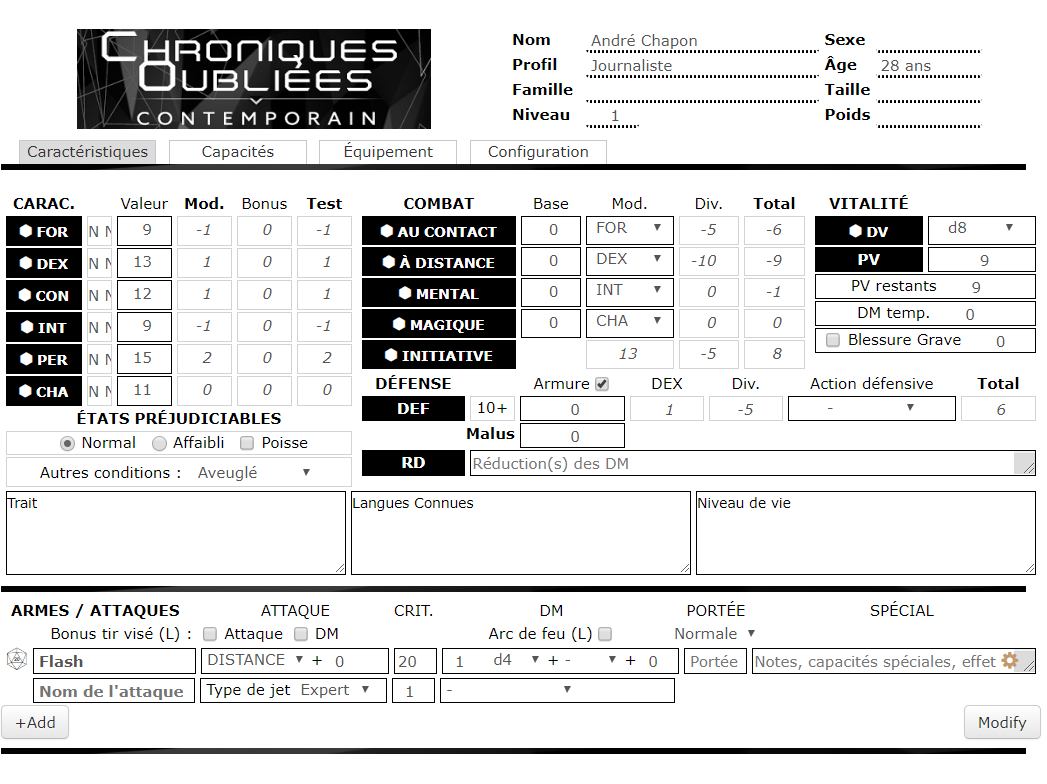
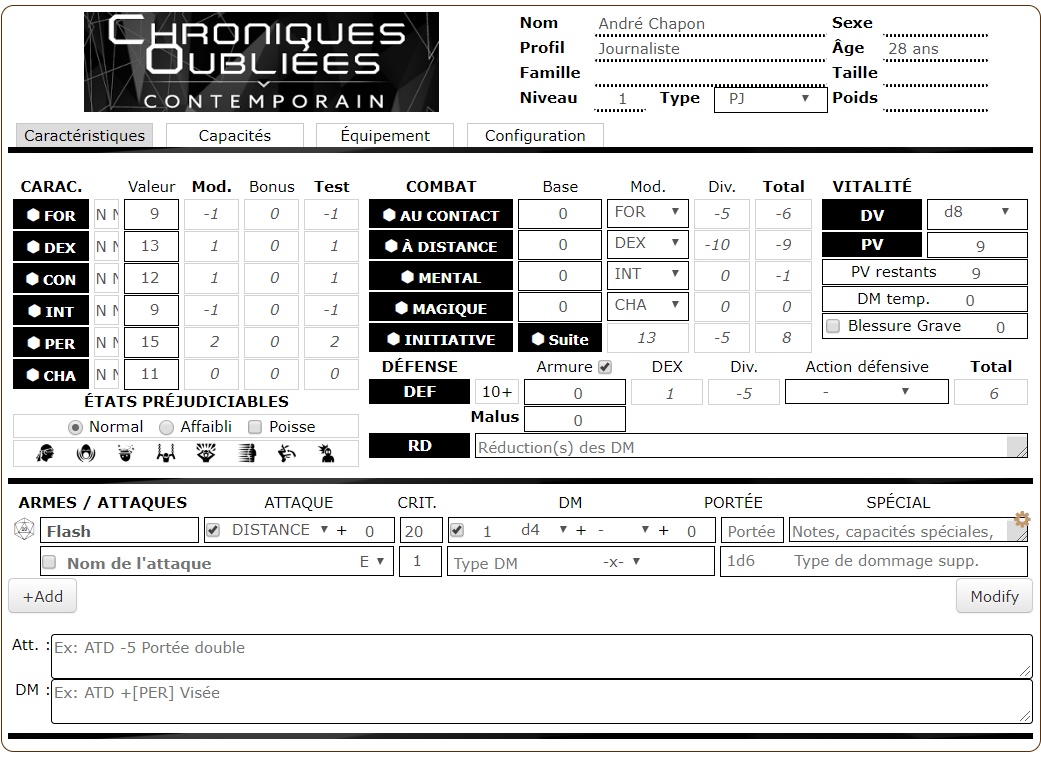
Notes de mise à jour 2.8 et nouveau screenshot

Changed region(s): [[0.0, 0.0, 1.0, 0.9948], [0.9837, 0.0, 1.0, 0.0301]]

diff --git a/README.md b/README.md
@@ -9,9 +9,14 @@ Cette feuilles de personnage inclut quelques jets et r&egrave;gles optionnelles.
 Le jeu complet est disponible sur le site de l'éditeur [Black Book Editions](http://www.black-book-editions.fr/produit.php?id=4349).
 
 # Version courante
-2.7 [Screenshot](coc_v2.png)
+2.8 [Screenshot](coc_v2.png)
 
 # Notes de version
+
+## v2.8 (2019-10-10)
+* Modifications du sheetworker pour éviter erreurs dans la console API
+* Homogénéisation des noms des roll buttons
+* Séparation des buffs circonstanciels de combat en deux champs : un pour le jet d'attaque et un pour le jet de dommages
 
 ## v2.7 (2019-29-06)
 ### Fiche PJ, onglet Configuration
